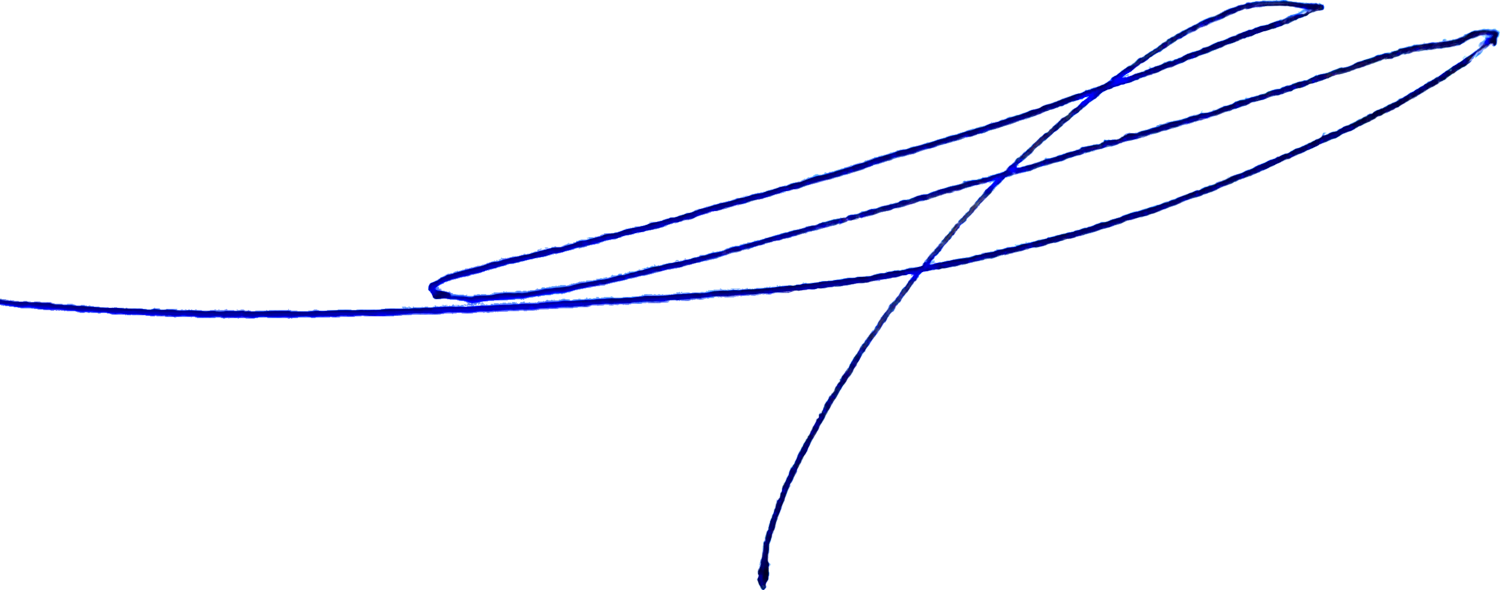
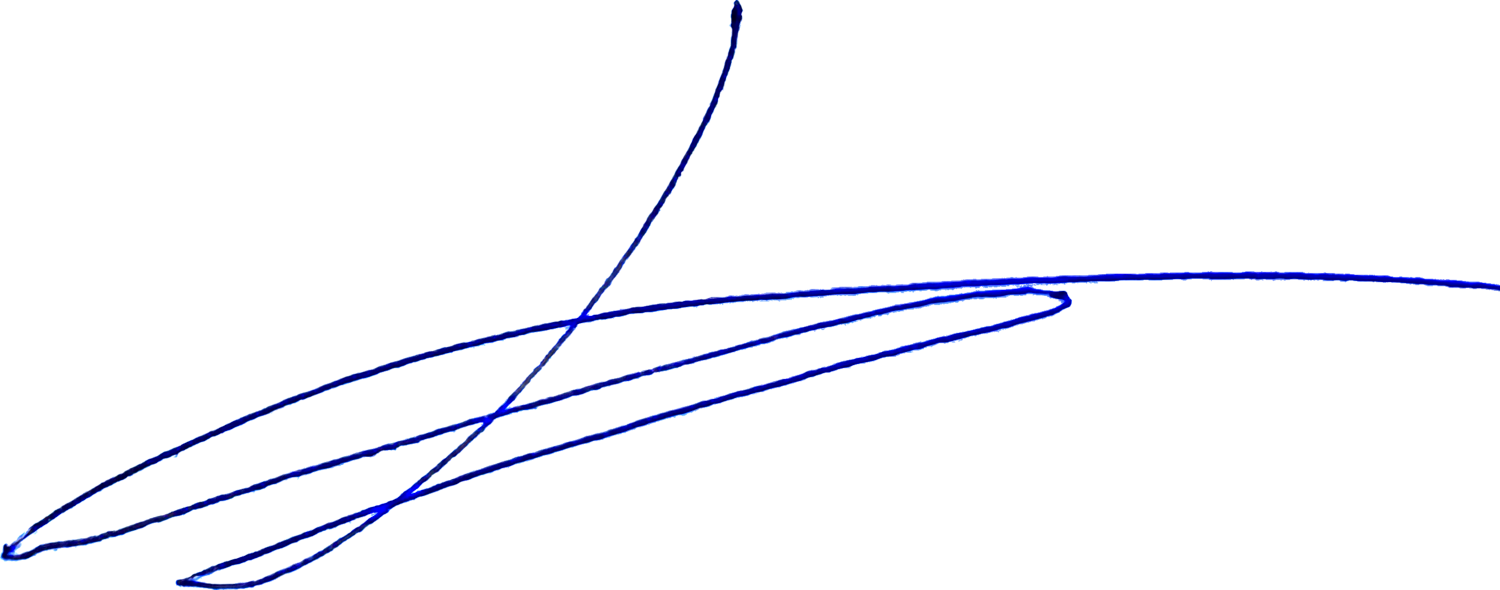
fix(cert): печать 36mm (стандарт ООО), без overhang, подпись повёрнута +90

diff --git a/online/lesson-8/certificate/index.html b/online/lesson-8/certificate/index.html
@@ -145,7 +145,7 @@
 
   /* === Печать (наложение PNG) === */
   .stamp-slot {
-    width: 44mm; height: 44mm;
+    width: 36mm; height: 36mm;
     border: 1.5px dashed var(--ink-20); border-radius: 50%;
     display: flex; align-items: center; justify-content: center;
     color: var(--ink-40); font-size: 9px; text-align: center;
@@ -153,7 +153,7 @@
     position: relative;
   }
   .stamp-png {
-    position: absolute; inset: -4mm; width: calc(100% + 8mm); height: calc(100% + 8mm);
+    position: absolute; inset: 0; width: 100%; height: 100%;
     object-fit: contain; pointer-events: none;
   }
   /* Когда печать загружена — убираем пунктирный кружок и текст «место печати» */
